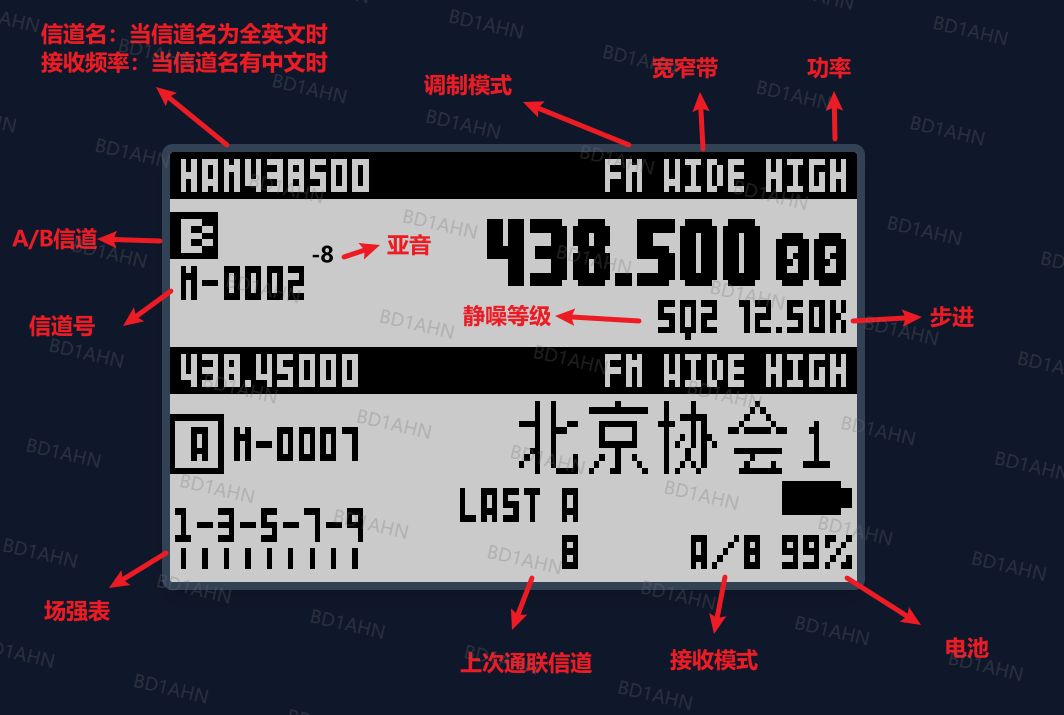
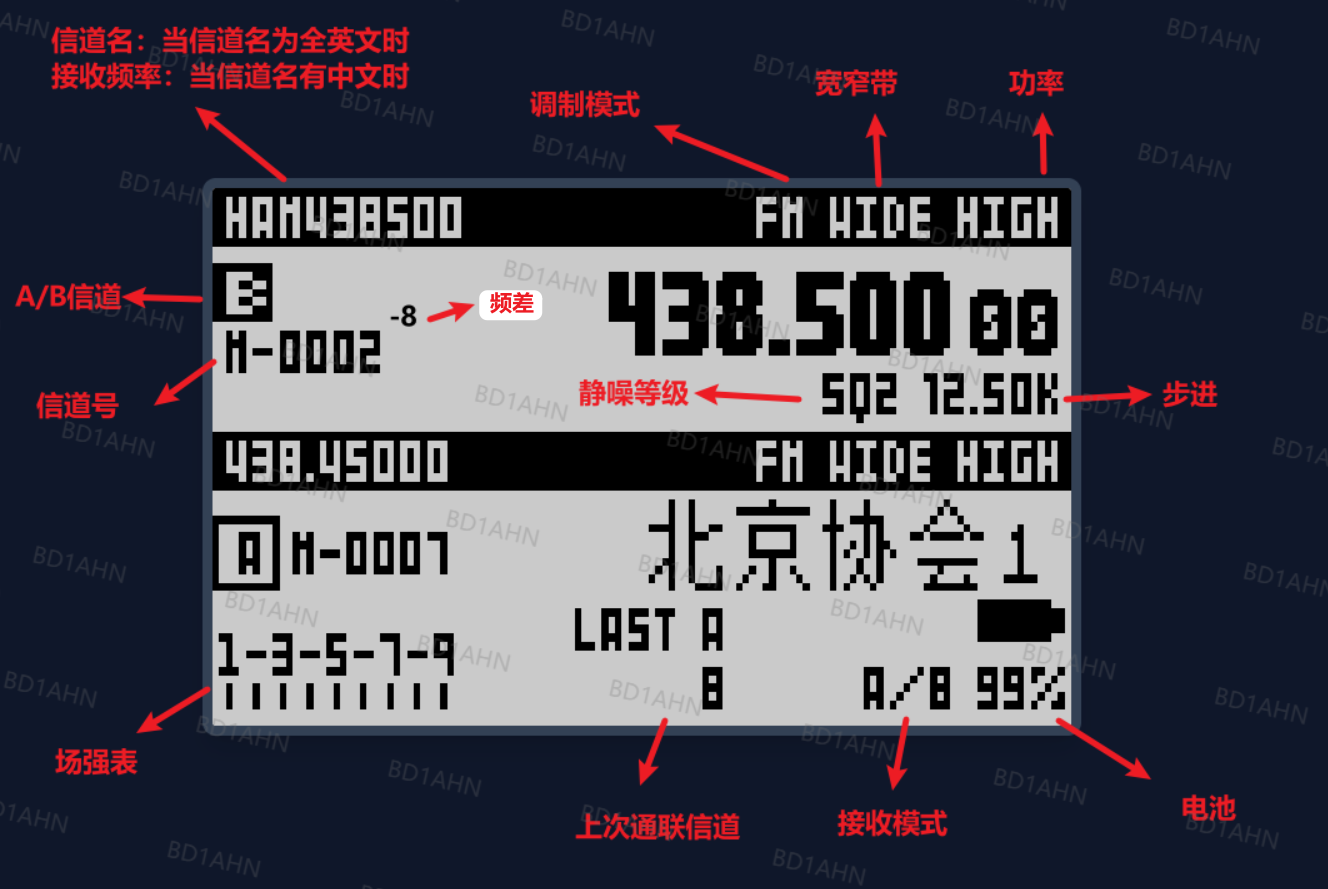
修改文档

diff --git a/docs/js/flash.min.js b/docs/js/flash.min.js
@@ -2106,7 +2106,7 @@ function writefreqBuildMissingCnFontToastMessage(channelNameInput, finalText, co
       ' 字）中：' +
       missingJoined;
   }
-  const douyinPrivateMsgHint = '\n\n如需补充上述汉字，请抖音私信联系。';
+  const douyinPrivateMsgHint = '\n\n如需补充上述汉字，请在写频页面，填写补充表单。';
   const fullText = bodyText + douyinPrivateMsgHint;
   return fullText;
 }

diff --git a/docs/help.md b/docs/help.md
@@ -11,7 +11,7 @@
 1. 切换为双守模式
 2. 两个信道都切换为频率模式
 3. A信道输入起始频率，B信道输入结束频率
-4. F+长按5，进入范围扫描页面（长按exit退出）
+4. 长按5，进入范围扫描页面（长按exit退出）
 5. F+5，进入扫频页面
 
 ## 1.3 游戏
@@ -212,7 +212,7 @@ F+5 进入频谱
 
 10. 刷回原厂固件要密码？
    
-   答：需要密码，密码是000000。还有中方式是恢复出厂（清理全部数据）后刷入F4HWN的4版本固件，再恢复出厂（清理全部数据），再使用官方刷机工具，刷入原厂固件。建议添加微信群，群中有很多热心ham帮助指导。微信群二维码在网站右侧悬浮（抖音、小红书等等下面）。
+   答：需要密码，密码是000000。还有种方式是恢复出厂（清理全部数据）后刷入F4HWN的4版本固件，再恢复出厂（清理全部数据），再使用官方刷机工具，刷入原厂固件。建议添加微信群，群中有很多热心ham帮助指导。添加方式在网站右侧悬浮（抖音、小红书等等下面），扫描添加我微信，拉你进群。
 
 11. 为啥我的屏幕出现雪花？或者我的电量飘忽不定？或者电压不对等等
 
@@ -220,7 +220,7 @@ F+5 进入频谱
 
 12. 收音机页面，信道来信号，为什么有时打断退出了，有时没有打断呢？
 
-   答：双信道模式下，设定为只有主信道有信号进来时，才会打断退出收音机。因为BK4829不能实现真正双守，采用轮询方式，不断进行两个信道切换进行监听。收音机模式下，如果是不断的切换监听的信道，会影响到FM收音机的收音质量，而且会很耗电。
+   答：双信道模式下，设定为只有当主信道有信号进来时，才会打断退出收音机。因为BK4829不能实现真正双守，采用轮询方式，不断进行两个信道切换进行监听。收音机模式下，如果是不断的切换监听的信道，会影响到FM收音机的收音质量，而且会很耗电。
 
 
 # 3. 说明